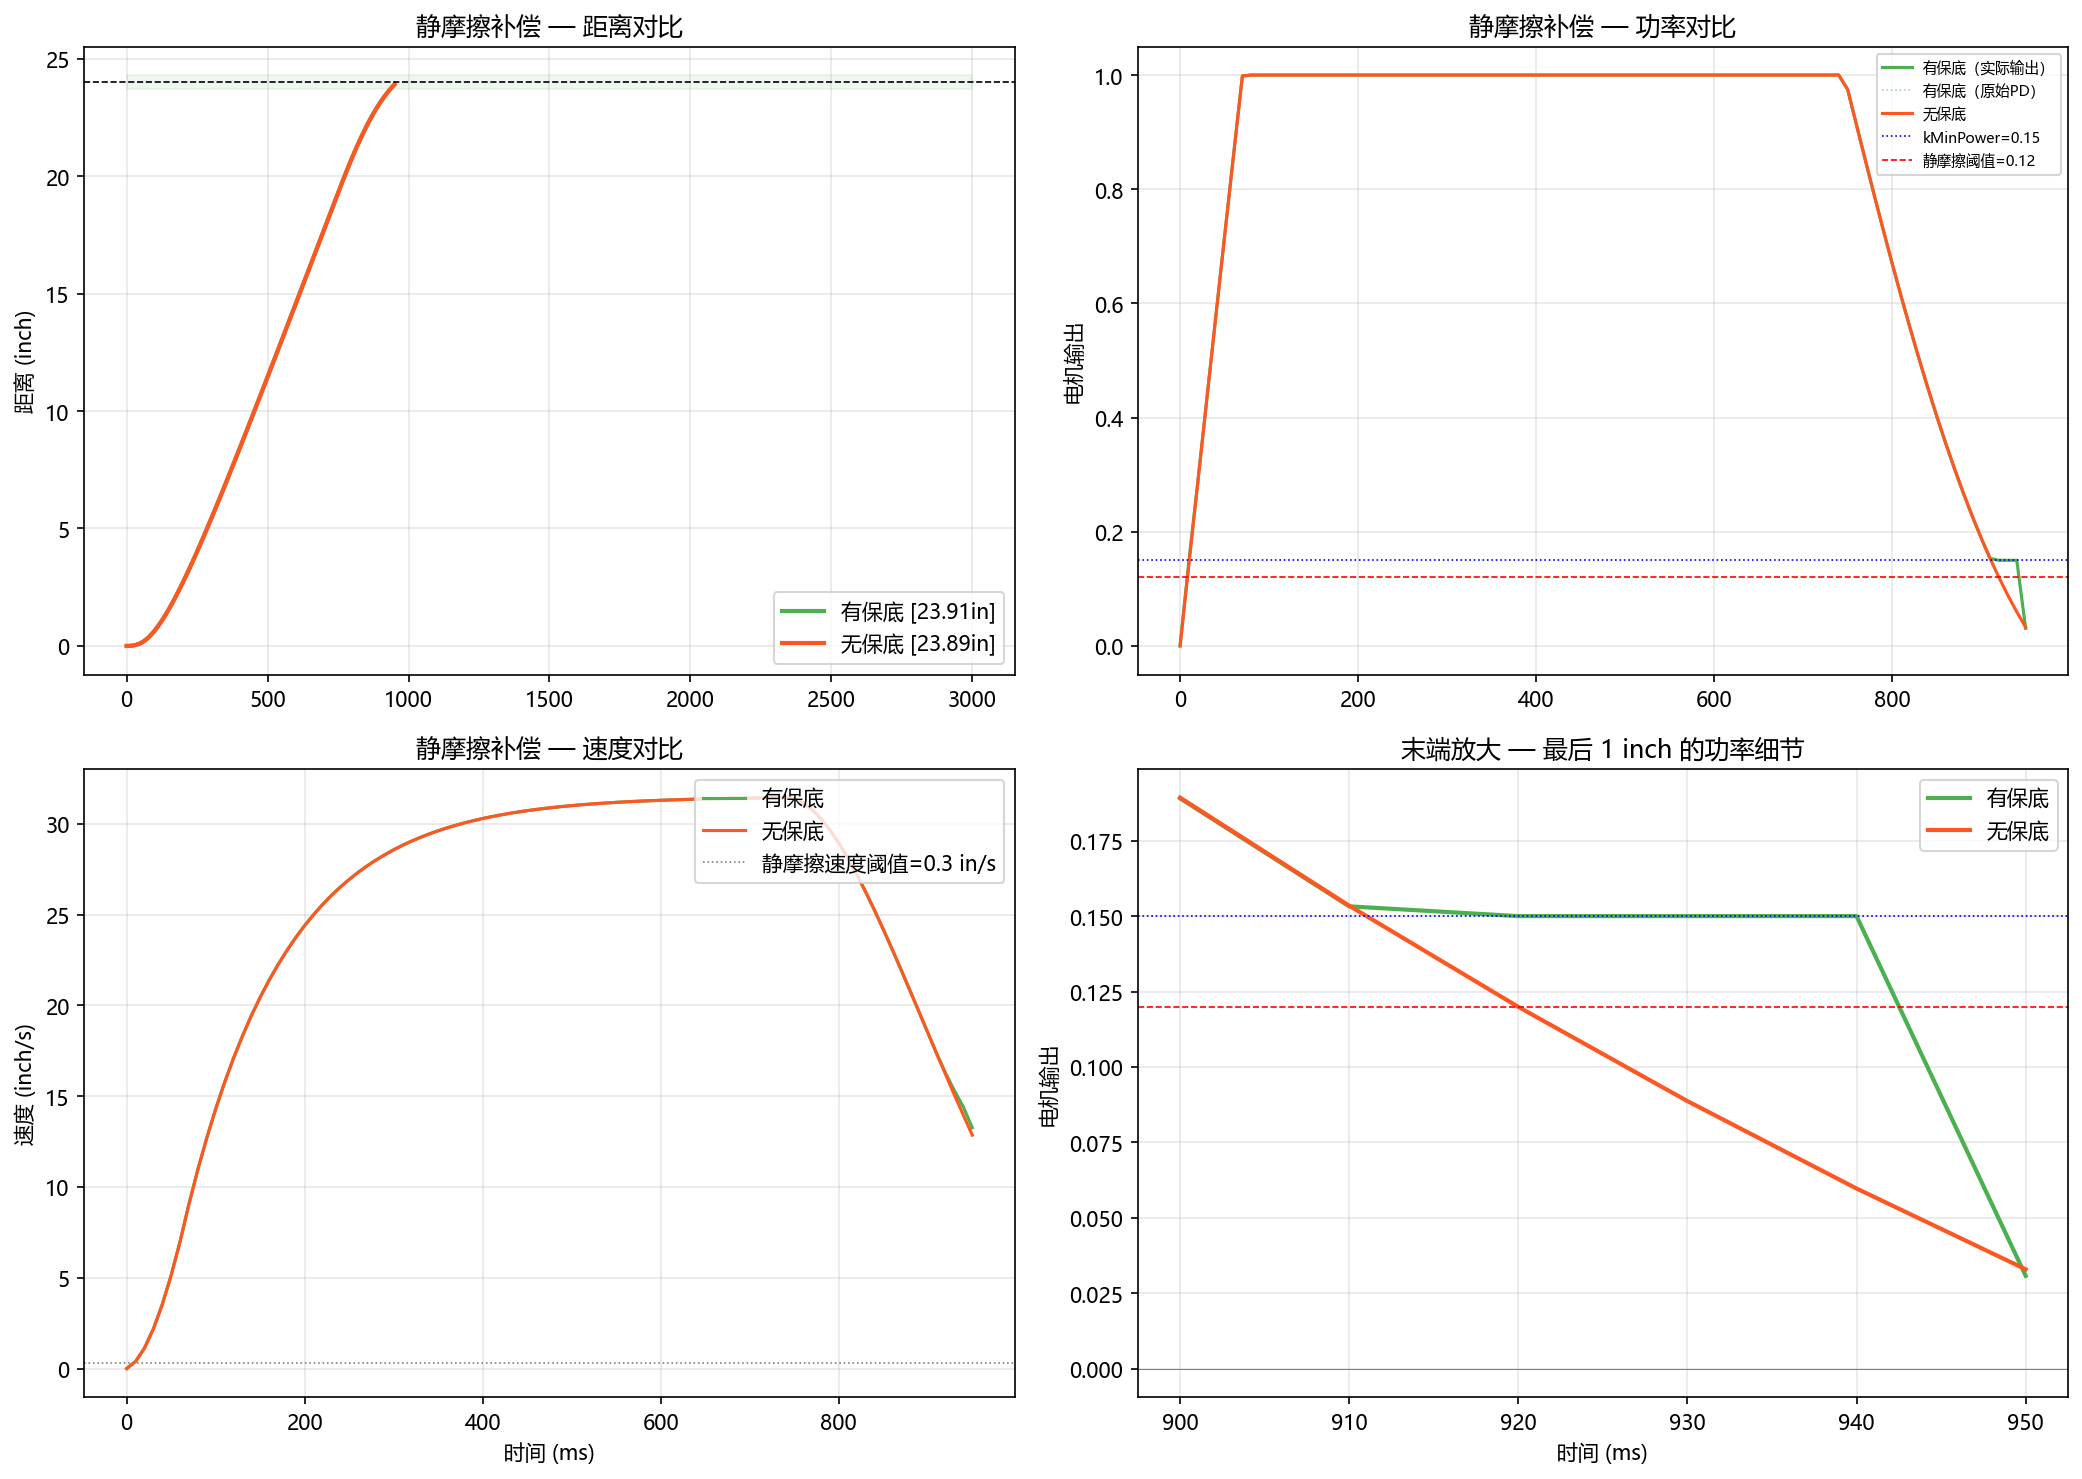
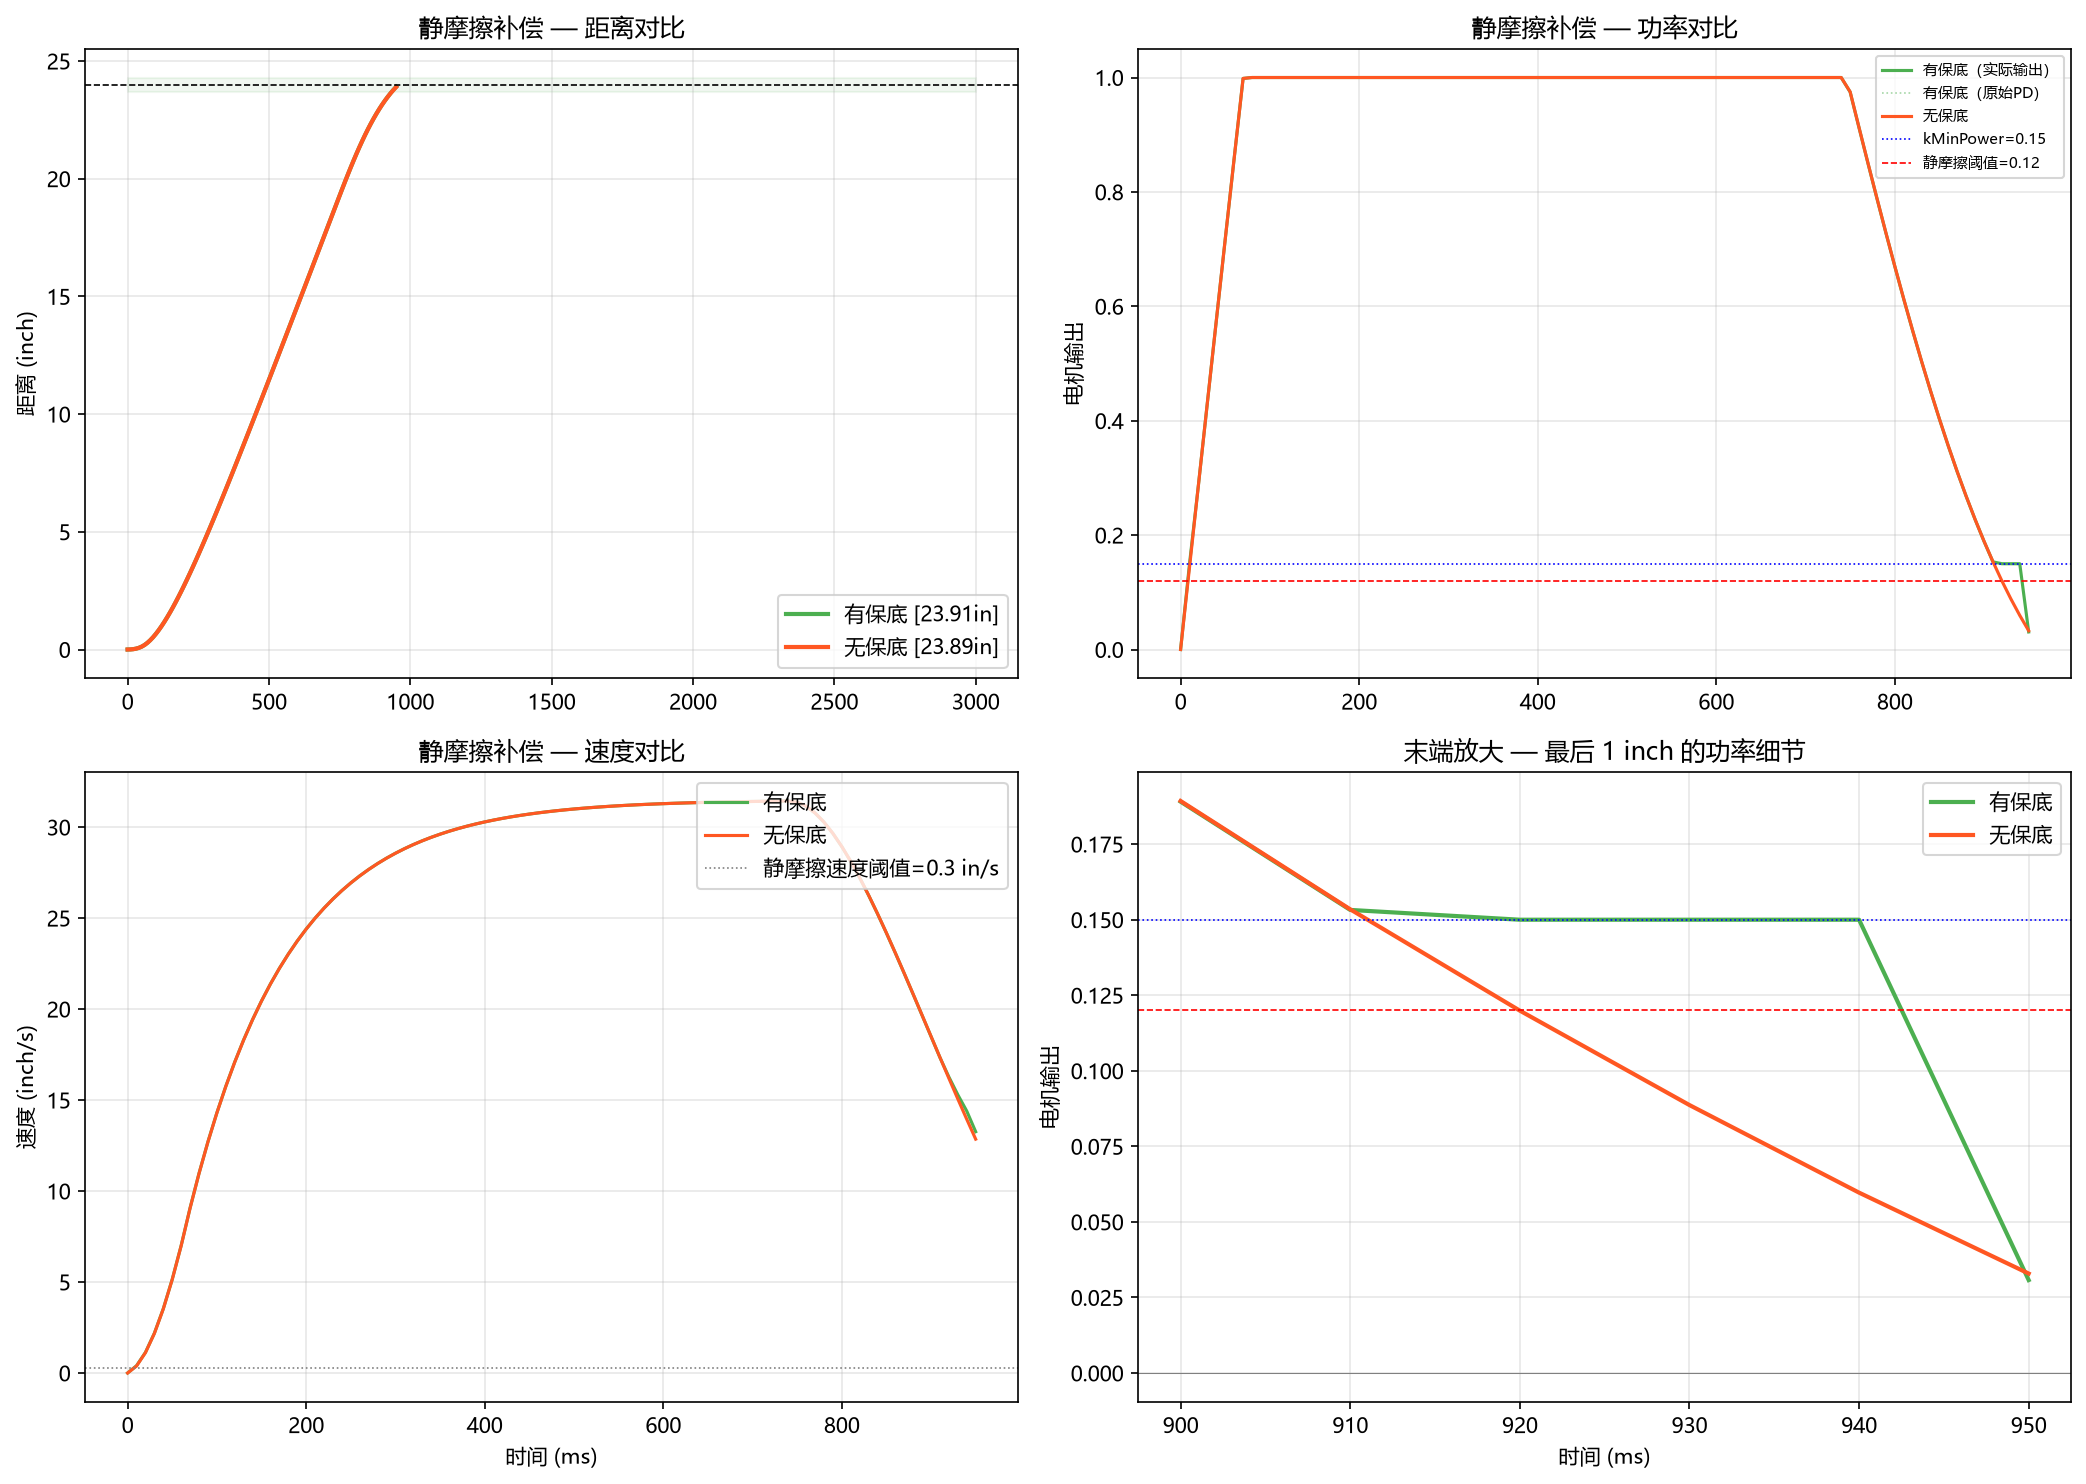
调参: auto1 路径参数调整，更新 sim_goforward 曲线截图

diff --git a/src/auto/auto1.cpp b/src/auto/auto1.cpp
@@ -96,7 +96,7 @@ void auto1() {
     ClawClose();
 
     // GoForWard(1.0,-10.3,1000,pid);            // 旧版
-    GoForWardCurve(1.0,5.5,1000,6.0f);        // 新版：Power, Target, FullTime, DecelDist
+    GoForWardCurve(0.9,5.5,1000,4.0f);        // 新版：Power, Target, FullTime, DecelDist
 
 
 
@@ -105,11 +105,11 @@ void auto1() {
     //TurnCurve(1.0, 90.0, 800, 15.0);  
     turnSettings.angularPID = lemlib::PID(1.33, 0.0, 0.1);
     lemlib::turnTo(-90_stDeg, 900_msec, turnParams, turnSettings);
-    GoForWardCurve(1.0,12.2,1000,8.0f); 
-    LiftUpDegree(-20, 358, 300);
+    GoForWardCurve(1.0,13.5,1000,5.5f); 
+    LiftUpDegree(-20, 358, 350);
     ClawOpen();
-
-    GoForWardCurve(1.0,-8.0,1000,8.0f);
+    pros::delay(60);
+    GoForWardCurve(1.0,-7.5,1000,5.0f);
     turnSettings.angularPID = lemlib::PID(1.33, 0.0, 0.1);
     lemlib::turnTo(-45_stDeg, 900_msec, turnParams, turnSettings);
 
